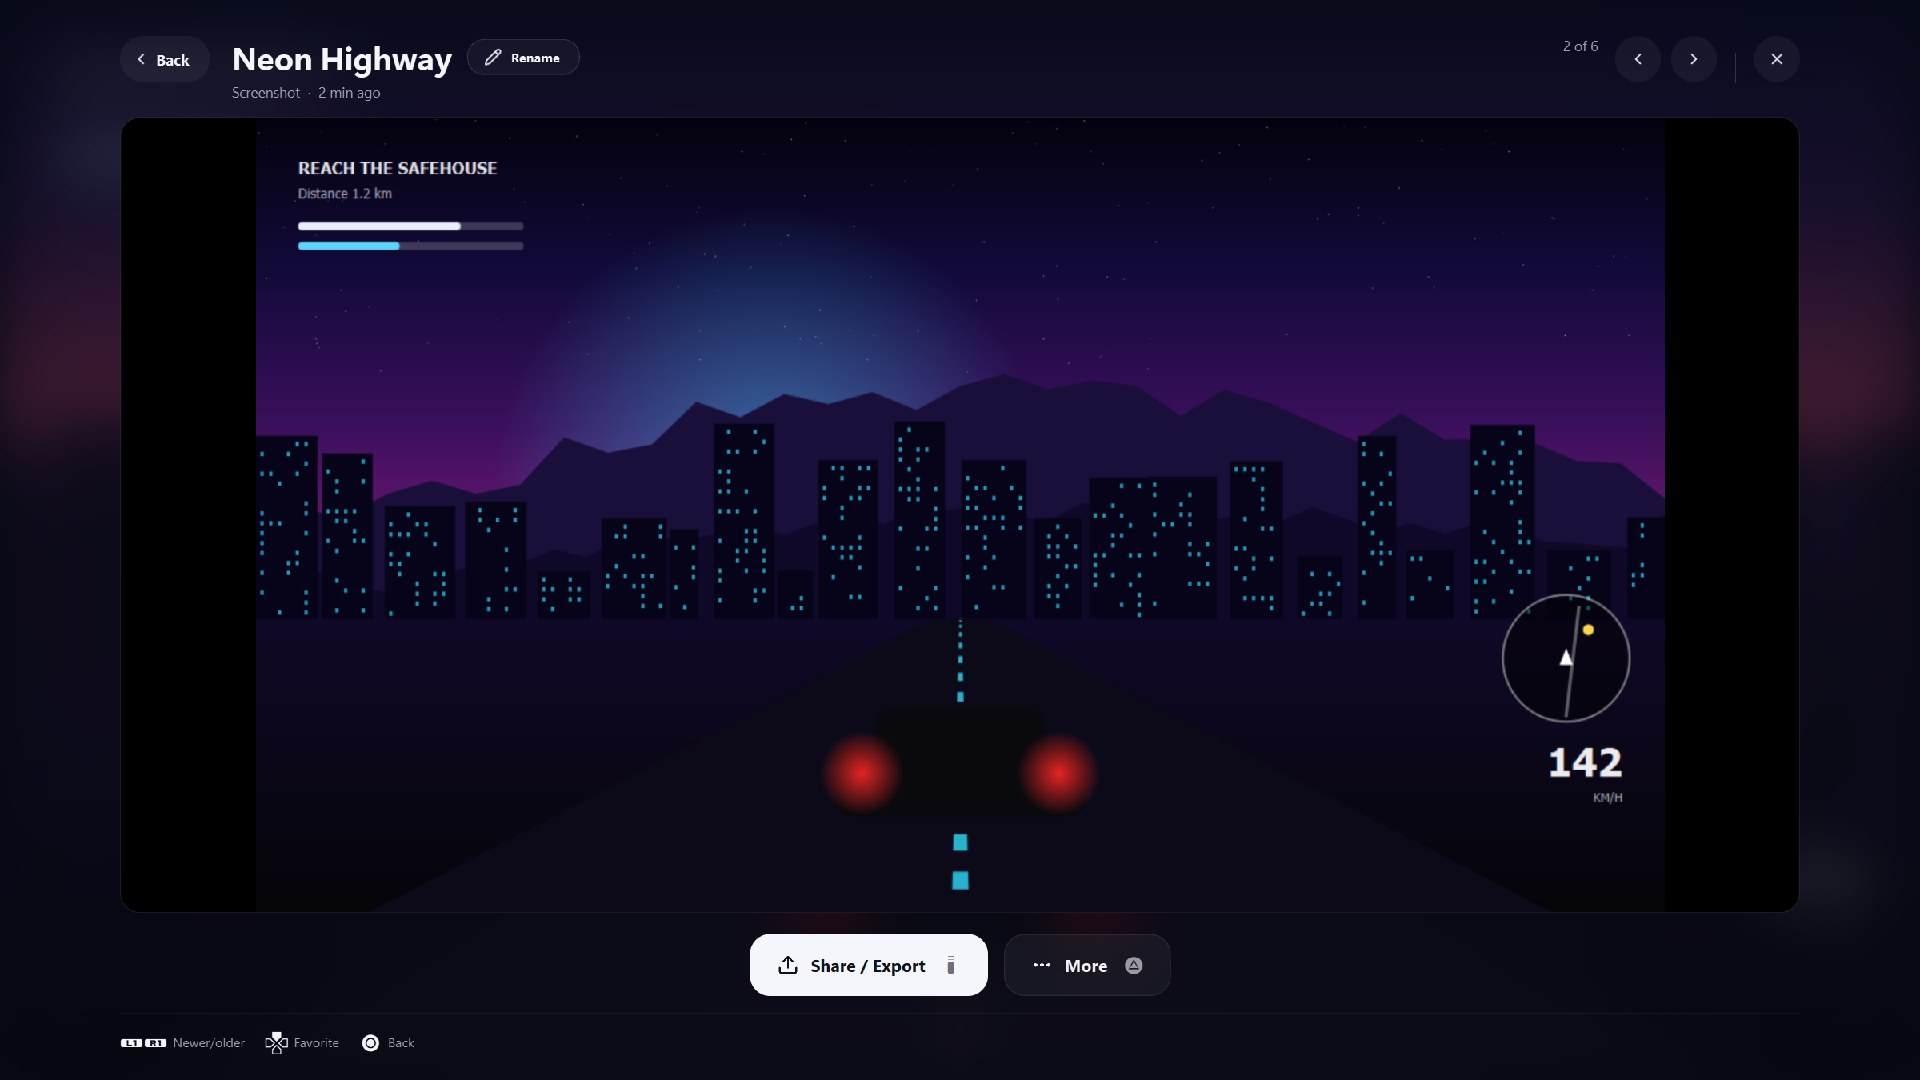
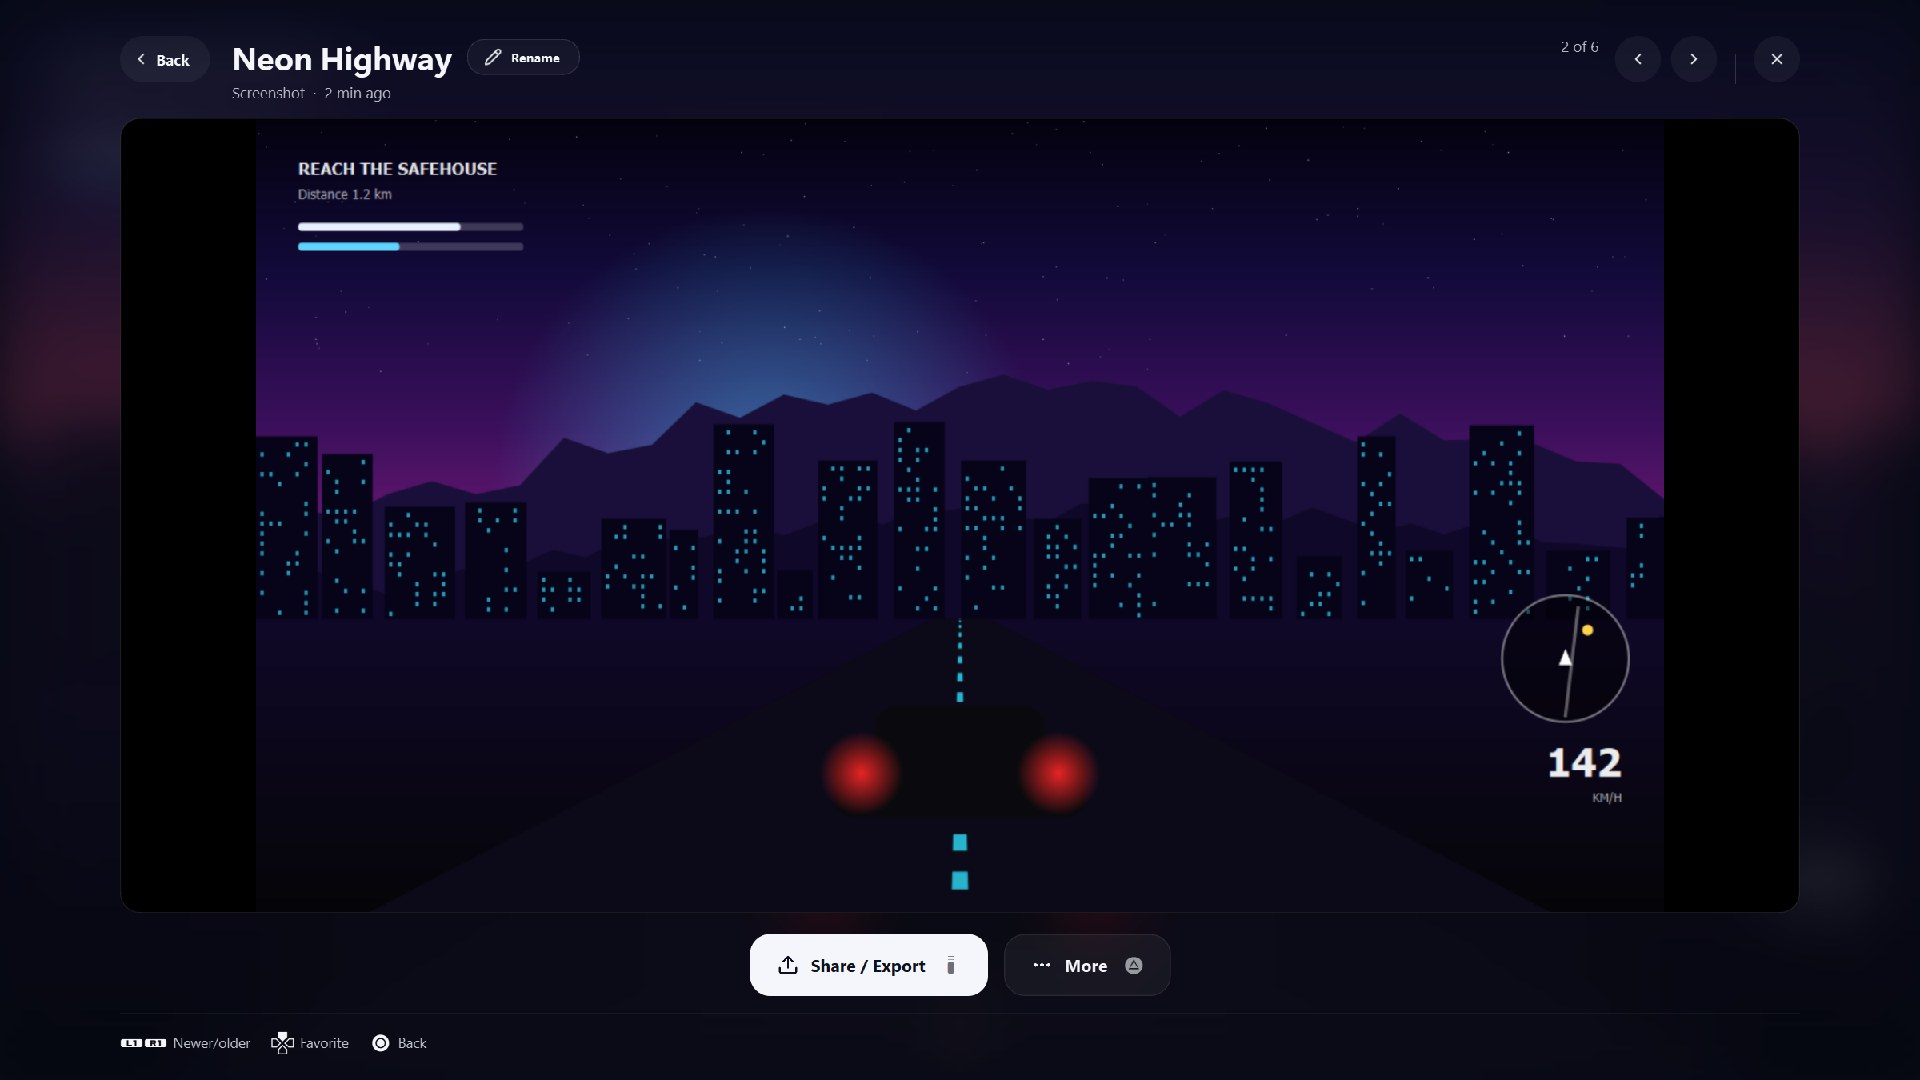
Refine the v0.0.20 look: clearer text, tidier gallery, smoother notices
- Grey text is brighter (MUTED 0.76, FAINT 0.58) and small text a size
  larger in the bar, gallery, notices, viewer and Settings
- Gallery: the same sidebar; _fit_tiles shares the grid's width evenly
  between tiles of about 350 px (4 across at 1080p), titles 15 px
- Notices fade in while they slide in, and fade out when their time is
  up; the gallery's previous tile shrinks back as the new one grows
- render_notifications placed grabs by their device-pixel size, which
  made the notices look padded in the README image

diff --git a/capture_menu.py b/capture_menu.py
@@ -2560,8 +2560,8 @@ def release_window(w: QtWidgets.QWidget):
 
 # ---- look: the PS5's night blue; white is the focus colour, red only means recording
 INK = "#f4f6fb"
-MUTED = "rgba(236,240,250,0.66)"
-FAINT = "rgba(236,240,250,0.46)"
+MUTED = "rgba(236,240,250,0.76)"
+FAINT = "rgba(236,240,250,0.58)"
 NIGHT = (7, 10, 20)         # every surface sits on this blue-black, like the PS5's menus
 PANEL = "rgba(24,29,44,0.92)"   # a raised card: notices, dialogs
 DARK = "#0d1120"            # ink on a white (focused) surface
@@ -2795,8 +2795,8 @@ class HintBar(QtWidgets.QWidget):
                 x += self.ITEM_GAP
             if glyph and not rtl:
                 x += draw_glyph(p, x, cy, glyph, self.mode) + self.GAP
-            p.setFont(font(13))
-            p.setPen(QtGui.QColor(236, 240, 250, 168))
+            p.setFont(font(14))
+            p.setPen(QtGui.QColor(236, 240, 250, 205))
             w = p.fontMetrics().horizontalAdvance(label)
             p.drawText(QtCore.QRectF(x, 0, w + 2, self.height()), Qt.AlignVCenter | Qt.AlignLeft, label)
             x += w
@@ -2994,13 +2994,13 @@ class ActionCard(Card):
         p.drawPixmap(QtCore.QRectF(r.center().x() - size / 2, r.center().y() - size / 2, size, size).toRect(),
                      icon_pixmap(self.icon_name, 34, color))
         text_r = QtCore.QRectF(0, self.tile().bottom() + 14, self.width(), 18)
-        p.setPen(QtGui.QColor(INK) if focused else QtGui.QColor(236, 240, 250, 170))
-        p.setFont(font(13, QtGui.QFont.DemiBold if focused else QtGui.QFont.Normal))
+        p.setPen(QtGui.QColor(INK) if focused else QtGui.QColor(236, 240, 250, 205))
+        p.setFont(font(14, QtGui.QFont.DemiBold if focused else QtGui.QFont.Normal))
         p.drawText(text_r, Qt.AlignHCenter | Qt.AlignVCenter,
                    p.fontMetrics().elidedText(tr(self.label), Qt.ElideRight, self.width()))
         if self.hint:
-            p.setPen(QtGui.QColor(236, 240, 250, 110))
-            p.setFont(font(12))
+            p.setPen(QtGui.QColor(236, 240, 250, 150))
+            p.setFont(font(13))
             p.drawText(text_r.translated(0, 17), Qt.AlignHCenter | Qt.AlignVCenter, tr(self.hint))
 
 
@@ -3087,17 +3087,17 @@ class ThumbCard(Card):
             p.setFont(font(14, QtGui.QFont.DemiBold))
             p.drawText(text, lead() | Qt.AlignVCenter,
                        p.fontMetrics().elidedText(self.caption, Qt.ElideRight, int(text.width())))
-            p.setPen(QtGui.QColor(236, 240, 250, 120))
-            p.setFont(font(12))
+            p.setPen(QtGui.QColor(236, 240, 250, 165))
+            p.setFont(font(13))
             p.drawText(text.translated(0, 19), lead() | Qt.AlignVCenter, self.when)
 
 BAR_STYLE = f"""
 QLabel {{ color: {INK}; background: transparent; }}
 #game {{ font-family: {DISPLAY}; font-size: 30px; font-weight: 600; }}
-#status {{ color: {MUTED}; font-size: 14px; }}
+#status {{ color: {MUTED}; font-size: 15px; }}
 #caption {{ color: {INK}; font-size: 17px; font-weight: 600; }}
-#focusInfo {{ color: {FAINT}; font-size: 14px; }}
-#storage {{ color: {AMBER}; font-size: 14px; }}
+#focusInfo {{ color: {FAINT}; font-size: 15px; }}
+#storage {{ color: {AMBER}; font-size: 15px; }}
 QPushButton#back {{
     color: {INK}; font-size: 14px; font-weight: 600; border: none; border-radius: 20px;
     background: rgba(255,255,255,16); padding: 0 18px 0 12px; min-height: 40px;
@@ -3691,11 +3691,11 @@ class Toast(QtWidgets.QWidget):
         self.title.setStyleSheet(f"color: {INK};")
         self.title.setTextFormat(Qt.RichText)
         self.sub = QtWidgets.QLabel()
-        self.sub.setFont(font(13))
+        self.sub.setFont(font(14))
         self.sub.setStyleSheet(f"color: {MUTED};")
         self.hint = QtWidgets.QLabel()
         self.hint.setTextFormat(Qt.RichText)
-        self.hint.setFont(font(12))
+        self.hint.setFont(font(13))
         self.hint.setStyleSheet(f"color: {MUTED};")
         col.addStretch()
         for w in (self.title, self.sub, self.hint):
@@ -3714,10 +3714,14 @@ class Toast(QtWidgets.QWidget):
         self.trim_btn.clicked.connect(lambda: self._open(trim=True))
         lay.addWidget(self.trim_btn, 0, Qt.AlignVCenter)
         self.trim_btn.hide()
-        self._hide = QtCore.QTimer(self, singleShot=True, timeout=self.hide)
+        self._hide = QtCore.QTimer(self, singleShot=True, timeout=self._fade_out)
         self._slide = QtCore.QPropertyAnimation(self, b"pos", self)
         self._slide.setDuration(260)
         self._slide.setEasingCurve(QtCore.QEasingCurve.OutCubic)
+        self._fade = QtCore.QPropertyAnimation(self, b"windowOpacity", self)
+        self._fade.setDuration(220)
+        self._fade.setEasingCurve(QtCore.QEasingCurve.OutCubic)
+        self._fade.finished.connect(lambda: self.hide() if self.windowOpacity() < 0.05 else None)
 
     def _open(self, trim: bool = False):
         if self.path:
@@ -3803,17 +3807,33 @@ class Toast(QtWidgets.QWidget):
                         if isinstance(w, (Menu, Viewer, Gallery, Settings)))
         g = (ui_screen() if page_open else game_screen()).geometry()   # beside the page in use
         x, y = g.right() - self.width() - 28, g.top() + 28
+        self._fade.stop()
         if self.isVisible() or not MOTION_MS:
             self._slide.stop()
             self.move(x, y)
-        else:   # slides in from the edge, like the PS5's
+            self.setWindowOpacity(1.0)
+        else:   # slides in from the edge and fades in, like the PS5's
             self.move(x + 48, y)
             self._slide.setStartValue(QtCore.QPoint(x + 48, y))
             self._slide.setEndValue(QtCore.QPoint(x, y))
             self._slide.start()
+            self.setWindowOpacity(0.0)
+            self._fade.setStartValue(0.0)
+            self._fade.setEndValue(1.0)
+            self._fade.start()
         self.show()
         self.raise_()
         self._hide.start(ms)
+
+    def _fade_out(self):
+        """Time's up: the notice fades away instead of vanishing."""
+        if not MOTION_MS or not self.isVisible():
+            self.hide()
+            return
+        self._fade.stop()
+        self._fade.setStartValue(self.windowOpacity())
+        self._fade.setEndValue(0.0)
+        self._fade.start()
 
 
 VIEWER_STYLE = f"""
@@ -3821,11 +3841,11 @@ QWidget {{ font-family: {FONT}; }}
 #viewer {{ background: transparent; border: none; }}
 QLabel {{ color: {INK}; background: transparent; }}
 #vTitle {{ font-family: {DISPLAY}; font-size: 32px; font-weight: 600; }}
-#vSub, #vNote {{ color: {MUTED}; font-size: 14px; }}
-#hint {{ color: {MUTED}; font-size: 14px; }}
+#vSub, #vNote {{ color: {MUTED}; font-size: 15px; }}
+#hint {{ color: {MUTED}; font-size: 15px; }}
 #panelTitle {{ font-family: {DISPLAY}; font-size: 24px; font-weight: 600; }}
-#panelSub {{ color: {MUTED}; font-size: 14px; }}
-#info {{ color: {MUTED}; font-size: 13px; }}
+#panelSub {{ color: {MUTED}; font-size: 15px; }}
+#info {{ color: {MUTED}; font-size: 14px; }}
 #vMsg {{ color: {MUTED}; font-size: 16px; }}
 #time {{ color: {MUTED}; font-size: 14px; font-family: "Cascadia Mono", Consolas, monospace; }}
 #stage {{ background: transparent; }}
@@ -4013,7 +4033,7 @@ class LevelRow(QtWidgets.QWidget):
         self.name = QtWidgets.QLabel(tr(label))
         self.name.setFont(font(16, QtGui.QFont.DemiBold))
         self.desc = QtWidgets.QLabel(tr(describe))
-        self.desc.setFont(font(13))
+        self.desc.setFont(font(14))
         self.desc.setStyleSheet(f"color: {MUTED};")
         names.addStretch()
         names.addWidget(self.name)
@@ -4146,8 +4166,8 @@ class OptionCard(QtWidgets.QAbstractButton):
         p.setFont(font(16, QtGui.QFont.DemiBold))
         flags = Qt.AlignLeft | Qt.AlignVCenter    # Qt turns this to the right in Arabic by itself
         p.drawText(mirror(self, QtCore.QRectF(74, 18, self.width() - 94, 24)), flags, self.title)
-        p.setPen(QtGui.QColor(236, 240, 250, 168))
-        p.setFont(font(13))
+        p.setPen(QtGui.QColor(236, 240, 250, 200))
+        p.setFont(font(14))
         sub = self.note or (self.describe(self.value) if callable(self.describe) else self.describe)
         p.drawText(mirror(self, QtCore.QRectF(74, 42, self.width() - 94, 22)), flags,
                    p.fontMetrics().elidedText(sub, Qt.ElideRight, self.width() - 94))
@@ -4163,7 +4183,7 @@ class OptionCard(QtWidgets.QAbstractButton):
                 p.setBrush(QtGui.QColor(INK) if self.hasFocus() else QtGui.QColor(255, 255, 255, 44))
                 p.drawRoundedRect(seg, 7, 7)
             p.setPen(QtGui.QColor(DARK) if chosen and self.hasFocus()
-                     else QtGui.QColor(INK) if chosen else QtGui.QColor(236, 240, 250, 150))
+                     else QtGui.QColor(INK) if chosen else QtGui.QColor(236, 240, 250, 185))
             p.drawText(seg, Qt.AlignCenter, p.fontMetrics().elidedText(self.choices[i][1], Qt.ElideRight,
                                                                          int(seg.width()) - 12))
 
@@ -5344,11 +5364,12 @@ class TileDelegate(QtWidgets.QStyledItemDelegate):
         path = Path(index.data(Qt.UserRole))
         r = QtCore.QRectF(option.rect)
         selected = bool(option.state & QtWidgets.QStyle.State_Selected)
-        t = self.g.grow if selected else 0.0      # the current tile grows into focus, like the PS5
+        # the current tile grows into focus, like the PS5, while the one before settles back
+        t = self.g.grow if selected else (1 - self.g.grow) if index.row() == self.g.last_row else 0.0
         p.save()
         p.setRenderHint(QtGui.QPainter.Antialiasing)
         rest = QtCore.QRectF(r.x() + (r.width() - self.g.TW) / 2, r.y() + self.g.PAD, self.g.TW, self.g.TH)
-        tile = grown(rest, 0.06 * t)
+        tile = grown(rest, 0.05 * t)
         radius = 14 * tile.width() / rest.width()
         ctl = self.g.ctl
         draw_capture_tile(p, tile, self.pixmap(path), path, ctl.length_of(path), ctl.is_favorite(path),
@@ -5356,14 +5377,14 @@ class TileDelegate(QtWidgets.QStyledItemDelegate):
                           selecting=self.g.selecting)
         paint_focus(p, tile, radius, t)
         title, _, sub = index.data(Qt.DisplayRole).partition("\n")
-        text = QtCore.QRectF(rest.left(), rest.bottom() + 14, rest.width(), 18)
-        p.setPen(QtGui.QColor(INK) if selected else QtGui.QColor(236, 240, 250, 200))
-        p.setFont(font(14, QtGui.QFont.DemiBold if selected else QtGui.QFont.Normal))
+        text = QtCore.QRectF(rest.left(), rest.bottom() + 14, rest.width(), 20)
+        p.setPen(QtGui.QColor(INK) if selected else QtGui.QColor(236, 240, 250, 225))
+        p.setFont(font(15, QtGui.QFont.DemiBold if selected else QtGui.QFont.Normal))
         p.drawText(text, lead() | Qt.AlignVCenter,
                    p.fontMetrics().elidedText(title, Qt.ElideRight, int(rest.width())))
-        p.setPen(QtGui.QColor(236, 240, 250, 115))
-        p.setFont(font(12))
-        p.drawText(text.translated(0, 19), lead() | Qt.AlignVCenter, sub)
+        p.setPen(QtGui.QColor(236, 240, 250, 165))
+        p.setFont(font(13))
+        p.drawText(text.translated(0, 21), lead() | Qt.AlignVCenter, sub)
         p.restore()
 
 
@@ -5384,13 +5405,13 @@ class CategoryDelegate(QtWidgets.QStyledItemDelegate):
             p.setBrush(QtGui.QColor(INK))
             p.drawRoundedRect(QtCore.QRectF(option.rect).adjusted(0, 3, 0, -3), 19, 19)
         right = f"{count}"
-        p.setFont(font(12))
-        p.setPen(QtGui.QColor(13, 17, 32, 150) if selected else QtGui.QColor(236, 240, 250, 105))
+        p.setFont(font(13))
+        p.setPen(QtGui.QColor(13, 17, 32, 150) if selected else QtGui.QColor(236, 240, 250, 150))
         rw = p.fontMetrics().horizontalAdvance(right)
         rtl = is_rtl()    # the count sits at the far end of the line from the name
         p.drawText(r, ((Qt.AlignLeft | Qt.AlignAbsolute) if rtl else Qt.AlignRight) | Qt.AlignVCenter, right)
-        p.setFont(font(14, QtGui.QFont.DemiBold if selected else QtGui.QFont.Normal))
-        p.setPen(QtGui.QColor(DARK) if selected else QtGui.QColor(236, 240, 250, 200))
+        p.setFont(font(15, QtGui.QFont.DemiBold if selected else QtGui.QFont.Normal))
+        p.setPen(QtGui.QColor(DARK) if selected else QtGui.QColor(236, 240, 250, 225))
         p.drawText(r.adjusted(rw + 12, 0, 0, 0) if rtl else r.adjusted(0, 0, -rw - 12, 0), lead() | Qt.AlignVCenter,
                    p.fontMetrics().elidedText(name, Qt.ElideRight, int(r.width() - rw - 12)))
         p.restore()
@@ -5412,18 +5433,32 @@ class Gallery(Grow, QtWidgets.QWidget):
     """All captures, like the PS5 Media Gallery: games on the left, their captures on the right."""
 
     thumb_ready = QtCore.Signal(str)
-    TW, TH = 256, 144
-    PAD = 18                 # room around a tile to grow into when it's the current one
+    TW, TH = 256, 144        # set from the grid's width by _fit_tiles()
+    PAD = 15                 # room around a tile to grow into when it's the current one
     FAVORITES = "★  Favorites"
+    last_row = -1            # the tile that had the focus before; it settles back as the new one grows
+    _row = -1
 
     def _on_grow(self, value):
         self.grow = float(value)
         self.grid.viewport().update()
 
-    def _regrow(self):
+    def _regrow(self, row: int):
         """The current tile changed: it grows into focus."""
+        self.last_row, self._row = self._row, row
         self.grow = 0.0
         self.grow_to(True)
+
+    def _fit_tiles(self):
+        """As many columns as fit tiles of about 350 px, sharing the width evenly, so the grid
+        fills the page edge to edge. The scroll bar's room is kept either way."""
+        room = self.grid.width() - 24     # the scroll bar, and the few px the list keeps at its edges
+        cell = room // max(2, round(room / 380))
+        if cell - 2 * self.PAD != self.TW:
+            self.TW = cell - 2 * self.PAD
+            self.TH = round(self.TW * 9 / 16)
+            self.tiles.forget()
+            self.grid.setGridSize(QtCore.QSize(cell, self.TH + self.PAD + 62))
 
     def __init__(self, ctl: Controller, viewer: "Viewer"):
         super().__init__(None, Qt.FramelessWindowHint | Qt.WindowStaysOnTopHint | Qt.Tool)
@@ -5510,7 +5545,7 @@ class Gallery(Grow, QtWidgets.QWidget):
         self.grid.setSpacing(4)
         self.grid.itemDoubleClicked.connect(lambda _: None if self.selecting else self.open_selected())
         self.grid.itemClicked.connect(self._clicked)
-        self.grid.currentRowChanged.connect(lambda _: (self._update_info(), self._regrow()))
+        self.grid.currentRowChanged.connect(lambda row: (self._update_info(), self._regrow(row)))
         self.grid.installEventFilter(self)
         body.addWidget(self.grid, 1)
         lay.addLayout(body, 1)
@@ -5767,6 +5802,8 @@ class Gallery(Grow, QtWidgets.QWidget):
                 self.mark_all()
                 return True
             return self._key(event.key())
+        if obj is self.grid and event.type() == QtCore.QEvent.Resize:
+            self._fit_tiles()
         return super().eventFilter(obj, event)
 
     def keyPressEvent(self, e):
@@ -6093,7 +6130,7 @@ class SettingRow(HoverFocus, QtWidgets.QWidget):
             p.setBrush(QtGui.QColor(255, 255, 255, 14))
             p.drawRoundedRect(r, 16, 16)
         ink = QtGui.QColor(DARK) if focused else QtGui.QColor(INK)
-        soft = QtGui.QColor(13, 17, 32, 165) if focused else QtGui.QColor(236, 240, 250, 150)
+        soft = QtGui.QColor(13, 17, 32, 165) if focused else QtGui.QColor(236, 240, 250, 185)
         desc = self.describe(self.value)
         left = QtCore.QRectF(322 if is_rtl() else 18, 0, self.width() - 340, self.height())
         p.setPen(ink)
@@ -6101,7 +6138,7 @@ class SettingRow(HoverFocus, QtWidgets.QWidget):
         if desc:
             p.drawText(left.adjusted(0, 13, 0, 0), lead() | Qt.AlignTop, self.label)
             p.setPen(soft)
-            p.setFont(font(13))
+            p.setFont(font(14))
             p.drawText(left.adjusted(0, 39, 0, 0), lead() | Qt.AlignTop,
                        p.fontMetrics().elidedText(desc, Qt.ElideRight, int(left.width())))
         else:

diff --git a/tools/render_notifications.py b/tools/render_notifications.py
@@ -53,9 +53,10 @@ shots = []
 for label, mode, fn in rows:
     cm.INPUT.set(mode); shots.append((label, toast(fn)))
 
+size = lambda pm: pm.deviceIndependentSize().toSize()   # grabs come at the screen's scale
 W, colw, pad, gap = 1920, 940, 28, 18
 col_items = [shots[:8], shots[8:]]
-heights = [sum(pm.height() + 30 + gap for _, pm in col) for col in col_items]
+heights = [sum(size(pm).height() + 30 + gap for _, pm in col) for col in col_items]
 H = max(heights) + pad * 2 + 70
 bg = QtGui.QPixmap.fromImage(draw_scene(W, H, "dusk", 7, hud=False))
 p = QtGui.QPainter(bg); p.setRenderHint(QtGui.QPainter.Antialiasing)
@@ -71,6 +72,6 @@ for ci, col in enumerate(col_items):
         p.setPen(QtGui.QColor(255, 255, 255, 200))
         p.drawText(QtCore.QRect(x0, y, colw, 26), Qt.AlignRight | Qt.AlignVCenter, label)
         y += 30
-        p.drawPixmap(x0 + colw - pm.width(), y, pm)
-        y += pm.height() + gap
+        p.drawPixmap(x0 + colw - size(pm).width(), y, pm)
+        y += size(pm).height() + gap
 p.end(); bg.save(str(out / "toasts_all.png")); print("ok", W, H)
